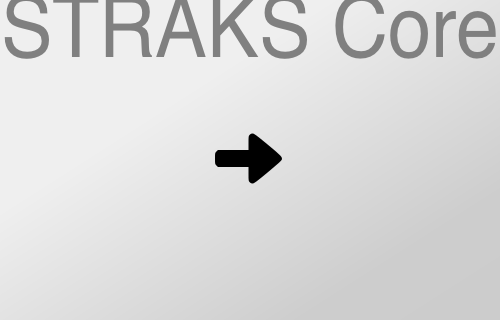
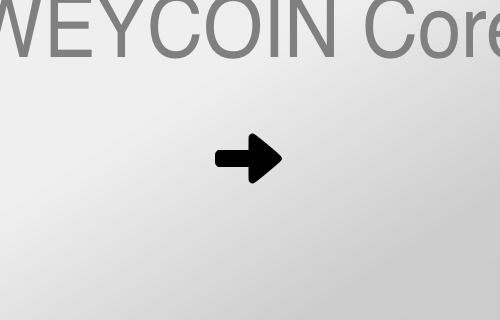
Finalized data

Changed region(s): [[0.0, 0.0, 1.0, 0.1875]]

diff --git a/src/chainparams.cpp b/src/chainparams.cpp
@@ -73,7 +73,7 @@ public:
 
         consensus.nSubsidyHalvingInterval = 200000;
         consensus.BIP34Height = 1;
[1 lines of base64/hex data omitted]
+        consensus.BIP34Hash = uint256S("0x0");
         consensus.BIP65Height = 0;
         consensus.BIP66Height = 0;
         consensus.BIP102HeightDelta = 0;
@@ -86,7 +86,7 @@ public:
         consensus.nPowMaxAdjustUp = 23.7; // Zawy adjustment: 1- 1/(1+.31)x100 = 23.7
 
         consensus.nPowTargetTimespan = 5 * 60; //5 minutes
-        consensus.nPowTargetSpacing = 16; //20 seconds
+        consensus.nPowTargetSpacing = 20; //20 seconds
 
         consensus.fPowD106SwitchHeight = consensus.DifficultyAdjustmentInterval();
 
@@ -131,7 +131,7 @@ public:
         // By default assume that the signatures in ancestors of this block are valid.
         consensus.defaultAssumeValid = uint256S("0x0");
 
-        //5 weeks from launch, fair chance to buy/accumulate. 50400 blocks
+        //5 weeks from launch, fair chance to buy/accumulate. 75000 blocks
         consensus.MasternodePaymentStartHeight = 75000;
 
         /**
@@ -154,12 +154,32 @@ public:
[1 lines of base64/hex data omitted]
 
         vSeeds.push_back(CDNSSeedData("seed.weycoin.org", "seed.weycoin.org"));
+        vSeeds.push_back(CDNSSeedData("seed2.weycoin.org", "seed2.weycoin.org"));
+        vSeeds.push_back(CDNSSeedData("seed3.weycoin.org", "seed3.weycoin.org"));
+        vSeeds.push_back(CDNSSeedData("seed4.weycoin.org", "seed4.weycoin.org"));
+        vSeeds.push_back(CDNSSeedData("seed5.weycoin.org", "seed5.weycoin.org"));
+        vSeeds.push_back(CDNSSeedData("seed6.weycoin.org", "seed6.weycoin.org"));
+        vSeeds.push_back(CDNSSeedData("seed7.weycoin.org", "seed7.weycoin.org"));
+        vSeeds.push_back(CDNSSeedData("seed8.weycoin.org", "seed8.weycoin.org"));
+        vSeeds.push_back(CDNSSeedData("seed9.weycoin.org", "seed9.weycoin.org"));
+        vSeeds.push_back(CDNSSeedData("seed10.weycoin.org", "seed10.weycoin.org"));
+        vSeeds.push_back(CDNSSeedData("seed11.weycoin.org", "seed11.weycoin.org"));
+        vSeeds.push_back(CDNSSeedData("seed12.weycoin.org", "seed12.weycoin.org"));
+        vSeeds.push_back(CDNSSeedData("seed13.weycoin.org", "seed13.weycoin.org"));
+        vSeeds.push_back(CDNSSeedData("seed14.weycoin.org", "seed14.weycoin.org"));
+        vSeeds.push_back(CDNSSeedData("seed15.weycoin.org", "seed15.weycoin.org"));
+        vSeeds.push_back(CDNSSeedData("seed16.weycoin.org", "seed16.weycoin.org"));
+        vSeeds.push_back(CDNSSeedData("seed17.weycoin.org", "seed17.weycoin.org"));
+        vSeeds.push_back(CDNSSeedData("seed18.weycoin.org", "seed18.weycoin.org"));
+        vSeeds.push_back(CDNSSeedData("seed19.weycoin.org", "seed19.weycoin.org"));
+        vSeeds.push_back(CDNSSeedData("seed20.weycoin.org", "seed20.weycoin.org"));
 
         base58Prefixes[PUBKEY_ADDRESS] = std::vector<unsigned char>(1,46);
         base58Prefixes[SCRIPT_ADDRESS] = std::vector<unsigned char>(1,5);
+        base58Prefixes[SCRIPT_ADDRESS2] = std::vector<unsigned char>(1,50);
         base58Prefixes[SECRET_KEY] =     std::vector<unsigned char>(1,204);
-        base58Prefixes[EXT_PUBLIC_KEY] = boost::assign::list_of(0xA2)(0xAE)(0xC9)(0xA6).convert_to_container<std::vector<unsigned char> >();
-        base58Prefixes[EXT_SECRET_KEY] = boost::assign::list_of(0x46)(0x00)(0x2A)(0x10).convert_to_container<std::vector<unsigned char> >();
+        base58Prefixes[EXT_PUBLIC_KEY] = boost::assign::list_of(0x04)(0x88)(0xB2)(0x1E).convert_to_container<std::vector<unsigned char> >();
+        base58Prefixes[EXT_SECRET_KEY] = boost::assign::list_of(0x04)(0x88)(0xAD)(0xE4).convert_to_container<std::vector<unsigned char> >();
 
         vFixedSeeds = std::vector<SeedSpec6>(pnSeed6_main, pnSeed6_main + ARRAYLEN(pnSeed6_main));
 
@@ -176,7 +196,10 @@ public:
 
         // treasury payment adresses
         vTreasuryRewardAddress = {
-            "KemDmd12smGfX7yd5ZGoXyMRhoa2FoqQUM"
+            "3K3bPrW5h7DYEMp2RcXawTCXajcm4ZU9Zh",
+            "33Ssxmn3ehVMgyxgegXhpLGSBpubPjLZQ6",
+            "3HFPNAjesiBY5sSVUmuBFnMEGut69R49ca",
+            "37jLjjfUXQU4bdqVzvpUXyzAqPQSmxyByi"
         };
 
         // [1] UNIX timestamp of last known number of transactions
@@ -184,7 +207,7 @@ public:
         //     (the tx=... number in the SetBestChain debug.log lines)
         // [3] estimated number of transactions per second after that timestamp
         chainTxData = ChainTxData{
-            1516483599,
+            0,
             0,
             0
         };
@@ -293,7 +316,7 @@ NEW **testnet** merkle root: 15343d9e3cfff44854ec63cc588d5a1ed6ea971085c2be97acb
 
         vFixedSeeds = std::vector<SeedSpec6>(pnSeed6_test, pnSeed6_test + ARRAYLEN(pnSeed6_test));
 
-        fMiningRequiresPeers = true;
+        fMiningRequiresPeers = false;
         fDefaultConsistencyChecks = false;
         fRequireStandard = false;
         fMineBlocksOnDemand = false;
@@ -307,6 +330,7 @@ NEW **testnet** merkle root: 15343d9e3cfff44854ec63cc588d5a1ed6ea971085c2be97acb
         };
 
         vTreasuryRewardAddress = {
+            "KrUBYAjwM1nE5UQ5wGEHRmbNMCoD2sVGeJ"
         };
 
         chainTxData = ChainTxData{
@@ -474,6 +498,8 @@ std::string CChainParams::GetTreasuryRewardAddressAtHeight(int nHeight) const {
 
 CScript CChainParams::GetTreasuryRewardScriptAtHeight(int nHeight) const {
     CWeyCoinAddress address(GetTreasuryRewardAddressAtHeight(nHeight).c_str());
+
+    printf("Searching for blocks.");
     assert(address.IsValid());
     assert(address.IsScript());
     CScriptID scriptID = boost::get<CScriptID>(address.Get()); // Get() returns a boost variant

diff --git a/src/miner.cpp b/src/miner.cpp
@@ -1,6 +1,6 @@
 // Copyright (c) 2009-2010 Satoshi Nakamoto
-// Copyright (c) 2009-2017 The Bitcoin Core developers 
-// Copyright (c) 2017 The Dash developers 
+// Copyright (c) 2009-2017 The Bitcoin Core developers
+// Copyright (c) 2017 The Dash developers
 // Copyright (c) 2017-2018 WEYCOIN developers
 // Distributed under the MIT software license, see the accompanying
 // file COPYING or http://www.opensource.org/licenses/mit-license.php.
@@ -142,7 +142,7 @@ std::unique_ptr<CBlockTemplate> BlockAssembler::CreateNewBlock(const CScript& sc
     if(!pblocktemplate.get())
         return nullptr;
     pblock = &pblocktemplate->block; // pointer for convenience
-	
+
     LOCK2(cs_main, mempool.cs);
     CBlockIndex* pindexPrev = chainActive.Tip();
     nHeight = pindexPrev->nHeight + 1;
@@ -155,7 +155,7 @@ std::unique_ptr<CBlockTemplate> BlockAssembler::CreateNewBlock(const CScript& sc
 
     pblock->nTime = GetAdjustedTime();
     const int64_t nMedianTimePast = pindexPrev->GetMedianTimePast();
-	
+
 	pblock->vtx.emplace_back();
     pblocktemplate->vTxFees.push_back(-1); // updated at end
     pblocktemplate->vTxSigOpsCost.push_back(-1);
@@ -179,7 +179,7 @@ std::unique_ptr<CBlockTemplate> BlockAssembler::CreateNewBlock(const CScript& sc
     addPackageTxs(nPackagesSelected, nDescendantsUpdated);
 
     int64_t nTime1 = GetTimeMicros();
-	
+
     nLastBlockTx = nBlockTx;
     nLastBlockSize = nBlockSize;
     nLastBlockWeight = nBlockWeight;
@@ -194,7 +194,7 @@ std::unique_ptr<CBlockTemplate> BlockAssembler::CreateNewBlock(const CScript& sc
     coinbaseTx.vout[0].scriptPubKey = scriptPubKeyIn;
 
     // start masternode payments
-    bool bMasterNodePayment = 
+    bool bMasterNodePayment =
         pindexPrev->nHeight >= chainparams.GetConsensus().MasternodePaymentStartHeight;
 
 	if(bMasterNodePayment) {
@@ -247,12 +247,12 @@ std::unique_ptr<CBlockTemplate> BlockAssembler::CreateNewBlock(const CScript& sc
     if(payments > 2){
         coinbaseTx.vout[payments-1].nValue = masternodePayment;
         blockValue -= masternodePayment;
-        //LogPrintf("[squbs] masternode payment %u\n", masternodePayment); 
+        //LogPrintf("[squbs] masternode payment %u\n", masternodePayment);
     }
 
-    coinbaseTx.vout[0].nValue = blockValue; // else if payments either equal to 1, 
+    coinbaseTx.vout[0].nValue = blockValue; // else if payments either equal to 1,
     //LogPrintf("[squbs] miner payment %u\n", blockValue);
-	
+
     coinbaseTx.vin[0].scriptSig = CScript() << nHeight << OP_0;
     pblock->vtx[0] = MakeTransactionRef(std::move(coinbaseTx));
     pblocktemplate->vchCoinbaseCommitment = GenerateCoinbaseCommitment(*pblock, pindexPrev, chainparams.GetConsensus());

diff --git a/src/base58.cpp b/src/base58.cpp
@@ -283,7 +283,12 @@ bool CWeyCoinAddress::GetKeyID(CKeyID& keyID) const
 
 bool CWeyCoinAddress::IsScript() const
 {
-    return IsValid() && vchVersion == Params().Base58Prefix(CChainParams::SCRIPT_ADDRESS);
+
+    printf("%d\n", (vchVersion == Params().Base58Prefix(CChainParams::SCRIPT_ADDRESS) ||
+                         vchVersion == Params().Base58Prefix(CChainParams::SCRIPT_ADDRESS2)));
+
+    return IsValid() && (vchVersion == Params().Base58Prefix(CChainParams::SCRIPT_ADDRESS) ||
+                         vchVersion == Params().Base58Prefix(CChainParams::SCRIPT_ADDRESS2));
 }
 
 void CWeyCoinSecret::SetKey(const CKey& vchSecret)

diff --git a/src/validation.cpp b/src/validation.cpp
@@ -2139,7 +2139,7 @@ bool ConnectBlock(const CBlock& block, CValidationState& state, CBlockIndex* pin
     }
 
     // TREASURY Funding
-    if(pindex->nHeight > 0) {
+    if(1 == 2) {
         // Coinbase transaction must include an output sending 5% of
         // the block reward to a treasury
         bool found = false;

diff --git a/src/chainparams.h b/src/chainparams.h
@@ -51,6 +51,7 @@ public:
     enum Base58Type {
         PUBKEY_ADDRESS,
         SCRIPT_ADDRESS,
+        SCRIPT_ADDRESS2,
         SECRET_KEY,
         EXT_PUBLIC_KEY,
         EXT_SECRET_KEY,
